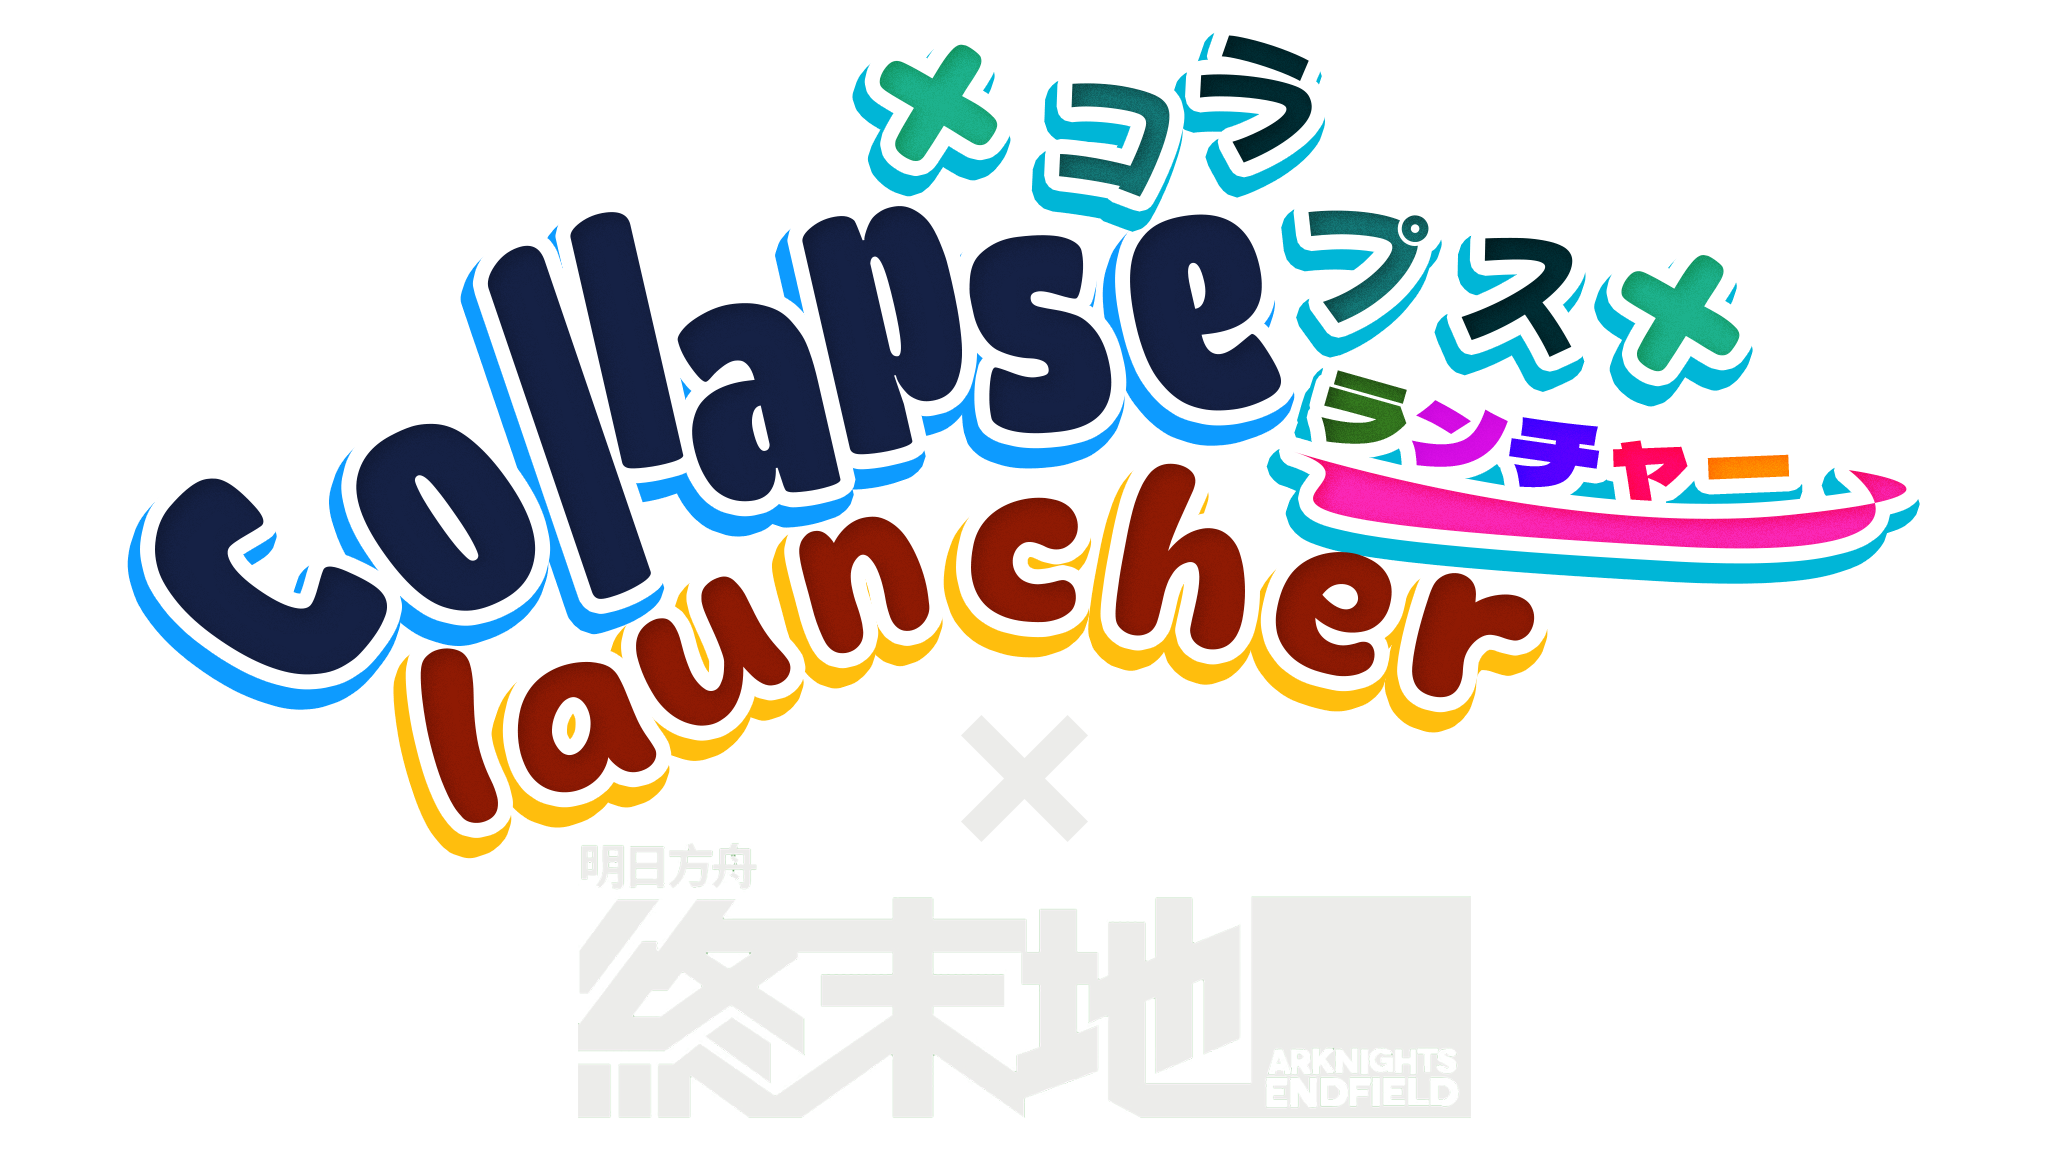
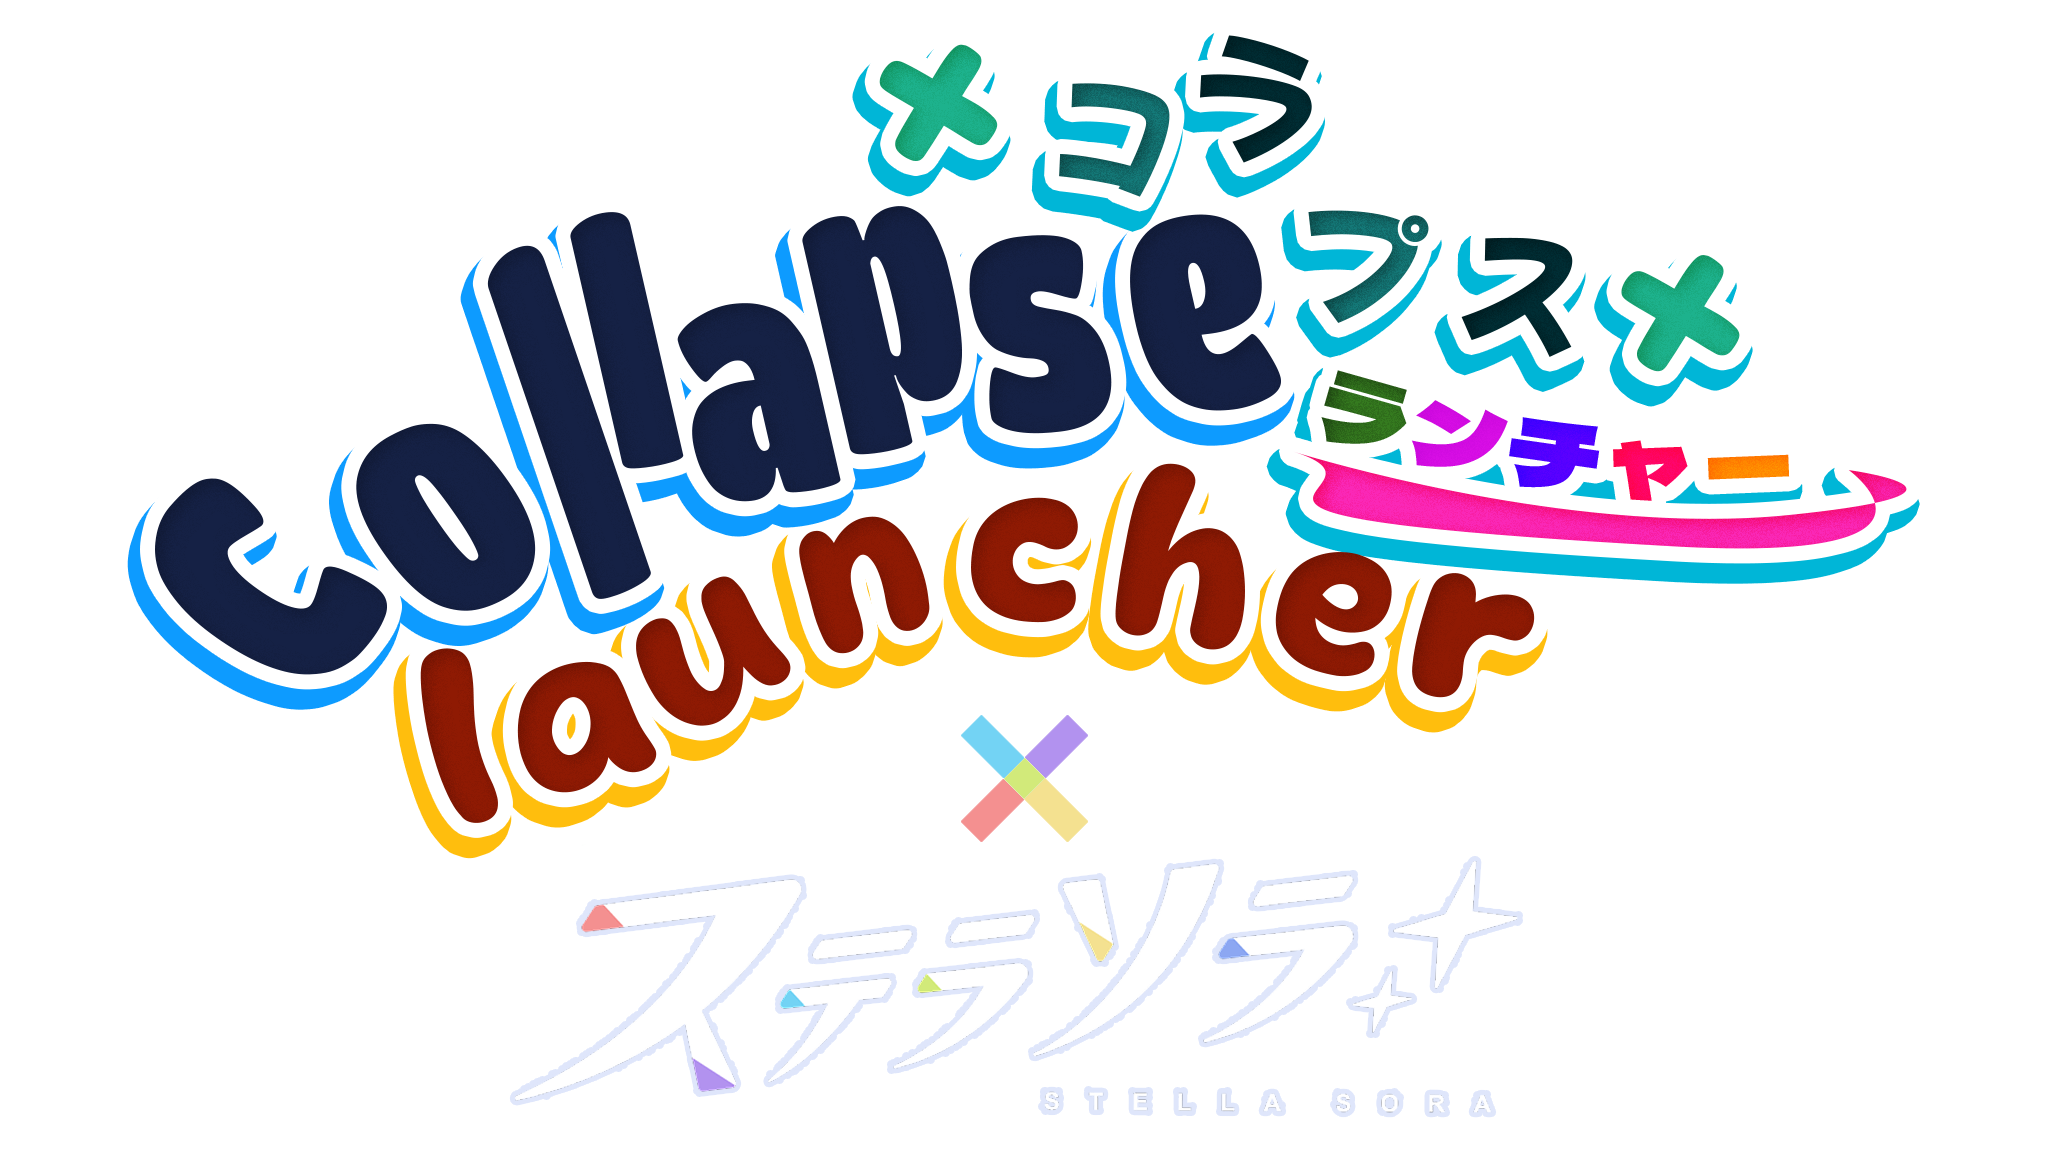
docs: update readme

diff --git a/README.md b/README.md
@@ -1,19 +1,18 @@
 <p align="center">
-  <!--<img width="512px" height="auto" src="./.github/assets/CollapseLauncherIdolType.png"/>-->
+  <img width="512px" height="auto" src="./.github/assets/CollapseLauncherIdolType.png"/>
 </p>
 
 <div align="center">
 
 # Hi3Helper.Plugin.StellaSora
 
-**English**<!-- · [简体中文](./README.zh-CN.md)-->
+**English** · [简体中文](./README.zh-CN.md)
 
-A third-party plugin for [Collapse Launcher](https://collapselauncher.com/), designed to support the downloading,
-updating, and launching of **Stella Sora**.
+A third-party plugin developed for [Collapse Launcher](https://collapselauncher.com/), designed to support the downloading, updating, and launching of **StellaSora**.
 
-The core functionality is currently ready for daily game management and launching.
+**Plugin Status**: Currently, all basic features have been implemented. Extended features await official support and updates from Collapse.
 
-<!--<img width="80%" alt="Plugin Preview" src="" />-->
+<img width="80%" alt="Plugin Preview" src="./.github/assets/img_3.png" />
 
 </div>
 
@@ -25,44 +24,72 @@ The core functionality is currently ready for daily game management and launchin
 ---
 
 > [!WARNING]
-> **It is highly recommended to back up your game directory before updating to prevent file corruption due to update
-errors.**
+> **Notes and Known Limitations**
+>
+> The current incremental game update (Delta Update) is a beta feature, which may lead to update failures, errors, or game file corruption. Please back up your game files before updating.
+> 
+> Since Collapse Launcher currently lacks official plugin development documentation, the functionality of this project is primarily based on the implementation of existing plugins, and **the following limitations may exist**:
+>
+> 1. **Pre-download Function**: The official launcher has not yet enabled the pre-download feature, making it impossible to know the corresponding data structure; therefore, it is currently unsupported.
+> 2. **Manual Integrity Check**: Collapse Launcher does not seem to provide relevant API interfaces for manual verification at this time; awaiting upstream updates.
 
-## �?Features
+> [!IMPORTANT]
+> This plugin is not officially maintained by Collapse. Please do not submit issues to the official Collapse repository or official Discord.
+> 
+> Please prioritize submitting issues in this repository. Submitting issues through other channels will not receive immediate support!
+>
+> The current self-update feature is experiencing network issues. Please do not rely on auto-update for now. Instead, please manually download the latest version of the plugin; I am currently working on a solution and will implement it in the next release.
 
-### �?Currently Supported
+**If this plugin helped you, please give it a ⭐ to support me!**
 
-> Todo
+## ✨ Features
 
-### 🚧 Roadmap / To-Do
+### ✅ Currently Supported
 
-> Todo
+- **Version Detection**: Automatically detects if the client version is up to date.
+- **Information Retrieval**: Automatically pulls and displays official background images, banners, and the latest news/announcements.
+- **Game Management**: Supports complete game downloading, installation, launching, and process detection.
+- **Game Update**: Supports updating the game.
+- **Multi-Server Support**:
+   - [x] Mainland China
+   - [x] Traditional Chinese (Taiwan)
+   - [ ] South Korea
+   - [ ] Japan
+   - [ ] Global
+- **Incremental Game Updates**: Current incremental game update is a beta feature, which may lead to update failures/errors/file corruption. Please back up game files before updating.
+- **Integrity Verification**: Automatically performs integrity verification and game repair after an update.
+- **Official Launcher Logic Simulation**: Mimics the logical behavior of the official launcher as closely as possible to ensure proper functionality.
+
+### 🚧 Development Plan / ToDo
+
+- [ ] **Pre-download Support**: Awaiting the official launcher to implement relevant interfaces.
+- [ ] **Manual Integrity Check**: Collapse Launcher does not seem to provide relevant API interfaces for manual verification; awaiting upstream updates.
+- [ ] **Social Media Panel**: Integrate official social media feed displays (Basic support exists, but currently disabled as icons cannot be retrieved via API).
+- [ ] **Game Update**: Awaiting the official release of the next version to test whether the simulated official update logic functions correctly.
+
 ---
 
-## 🧩 Installation
+## 🧩 How to Install the Plugin
 
 **Prerequisites:**
 Before using this plugin, please ensure your Collapse Launcher version is `1.83.14` or higher.
 
-### Steps
+### Installation Steps
 
 1. **Download the Plugin**
-   Go to the [Releases Page](https://github.com/misaka10843/Hi3Helper.Plugin.StellaSora/releases/latest) and download
-   the
-   latest plugin archive (`.zip` file).
+   Go to the [Releases page](https://github.com/misaka10843/Hi3Helper.Plugin.Hypergryph/releases/latest) and download the latest plugin archive (`.zip` file).
 
    ![Release Download Page](./.github/assets/img.png)
 
-2. **Open Plugin Manager**
-   Open the launcher, go to **Settings**, scroll down, and click on `Open Plugin Manager Menu`.
+2. **Enter Plugin Management**
+   Open the launcher, go to the **Settings** page, scroll down, and click `Open Plugin Management Menu`.
 
    ![Settings Menu](./.github/assets/img_2.png)
 
-3. **Add and Restart**
-   In the pop-up window, click the `Click to add .zip or manifest.json` button and select the `.zip` file you just
-   downloaded.
+3. **Add and Apply**
+   In the pop-up window, click the `Click to add .zip or manifest.json` button and select the `.zip` file you just downloaded.
 
-   Once added, **restart the launcher** for the changes to take effect.
+   After adding, **restart the launcher** for the changes to take effect.
 
    ![Add Plugin Dialog](./.github/assets/img_1.png)
 
@@ -70,4 +97,4 @@ Before using this plugin, please ensure your Collapse Launcher version is `1.83.
 
 ## ⚠ Disclaimer
 
-This project is a third-party open-source plugin and is not affiliated with _YoStar_.
+This project is a third-party open-source plugin and is not affiliated with _Yostar_ or _stargazer_.

diff --git a/README.zh-CN.md b/README.zh-CN.md
@@ -1,0 +1,102 @@
+<p align="center">
+  <img width="512px" height="auto" src="./.github/assets/CollapseLauncherIdolType.png"/>
+</p>
+
+<div align="center">
+
+# Hi3Helper.Plugin.StellaSora
+
+[English](./README.md) · **简体中文**
+
+为 [Collapse Launcher (Collapse 启动器)](https://collapselauncher.com/) 开发的第三方插件，旨在支持 **星塔旅人(StellaSora)**
+的游戏下载、更新与启动。
+
+**插件当前状态**: 当前基本功能均已实现，扩展功能需要等待官方支持和Collapse的更新
+
+<img width="80%" alt="Plugin Preview" src="./.github/assets/img_3.png" />
+
+</div>
+
+<p align="center">
+  <a href="https://github.com/misaka10843/Hi3Helper.Plugin.StellaSora/graphs/contributors" target="_blank"><img alt="GitHub contributors" src="https://img.shields.io/github/contributors/misaka10843/Hi3Helper.Plugin.StellaSora?style=for-the-badge&logo=github"></a>
+  <a href="https://github.com/misaka10843/Hi3Helper.Plugin.StellaSora/stargazers" target="_blank"><img alt="GitHub Repo stars" src="https://img.shields.io/github/stars/misaka10843/Hi3Helper.Plugin.StellaSora?style=for-the-badge&label=%E2%AD%90STAR"></a>
+</p>
+
+---
+
+> [!WARNING]
+> **注意事项与已知局限**
+>
+> 当前增量游戏更新为beta功能，可能会导致更新失败/报错/游戏文件损坏等问题，请在更新前备份游戏文件。
+> 
+> 由于 Collapse Launcher 暂无官方插件开发文档，本项目功能主要参考现有插件实现，**并可能存在以下局限性**：
+>
+> 1. **预下载功能**：当前官方启动器还并未开启预下载功能，暂时无法获知对应的数据结构，因此无法支持。
+> 2. **手动完整性校验**：手动校验目前Collapse启动器似乎暂未提供相关 API 接口，需等待上游更新。
+
+> [!IMPORTANT]
+> 此插件并不是Collapse官方维护的，所以请不要前往Collapse的官方仓库提交issue和前往官方Discord提交issue
+> 
+> 请优先在此仓库中提交issue，在其他的渠道提交issue将不会第一时间得到支持！
+>
+> 当前自更新有网络问题，请不要依靠自更新，而是重新下载对应最新版本插件，我正在编写解决方案，将在下个版本实施
+
+**如果这个插件帮到了您，还请您点个⭐来支持我！**
+
+## ✨ 功能特性
+
+### ✅ 当前已支持
+
+- **版本检测**：自动检测客户端版本是否为最新。
+- **资讯获取**：自动拉取并展示官方背景图、Banner 以及最新新闻公告。
+- **游戏管理**：支持完整的游戏下载、安装、启动及运行检测。
+- **游戏更新**：支持更新游戏。
+- **多服支持**:
+   - [x] 中国大陆
+   - [x] 繁中(台湾)
+   - [ ] 韩国
+   - [ ] 日本
+   - [ ] 全球
+- **增量游戏更新**：当前增量游戏更新为beta功能，可能会导致更新失败/报错/游戏文件损坏等问题，请在更新前备份游戏文件。
+- **完整性校验**：在更新后会自动进行完整性校验与游戏修复。
+- **仿官方启动器逻辑**: 尽可能模拟官方启动器的逻辑行为以保证功能正常
+
+### 🚧 开发计划 / 待办事项 (ToDo)
+
+- [ ] **预下载支持**：需等待官方启动器实装相关接口。
+- [ ] **手动完整性校验**：手动校验目前Collapse启动器似乎暂未提供相关 API 接口，需等待上游更新。
+- [ ] **社媒面板**：集成官方社交媒体动态展示。(现基本支持，但是因为icon无法通过api获取所以暂时关闭)
+- [ ] **游戏更新**：等待官方更新下一个版本后测试模拟官方启动器的更新逻辑是否正常
+
+---
+
+## 🧩 如何安装插件
+
+**前置要求：**
+在使用本插件前，请确保您的 Collapse Launcher 版本为 `1.83.14` 或更高版本。
+
+### 安装步骤
+
+1. **下载插件**
+   前往 [Releases 页面](https://github.com/misaka10843/Hi3Helper.Plugin.Hypergryph/releases/latest) 下载最新的插件压缩包（
+   `.zip` 文件）。
+
+   ![Release Download Page](./.github/assets/img.png)
+
+2. **进入插件管理**
+   打开启动器，进入 **设置 (Settings)** 页面，向下滚动找到并点击 `打开插件管理菜单`。
+
+   ![Settings Menu](./.github/assets/img_2.png)
+
+3. **添加并应用**
+   在弹出的窗口中，点击 `点击添加 .zip 或 manifest.json` 按钮，选择刚刚下载的 `.zip` 文件。
+
+   完成添加后，**重启启动器**即可生效。
+
+   ![Add Plugin Dialog](./.github/assets/img_1.png)
+
+---
+
+## ⚠ 免责声明
+
+本项目是第三方开源插件，与 _Yostar_ 或 _stargazer_ 无关。
